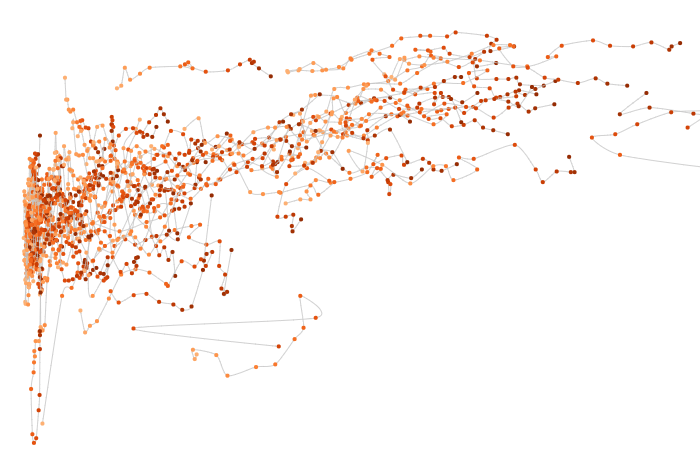
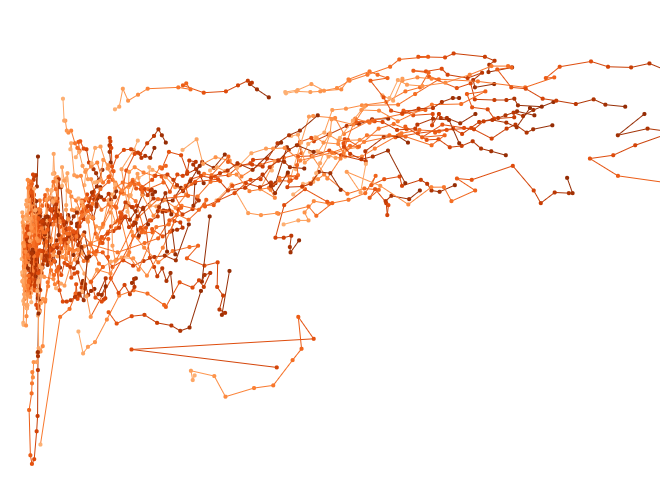
gradients on lines.

diff --git a/src/components/ConnectedScatterPlotGroups/ConnectedScatterPlotGroups.js b/src/components/ConnectedScatterPlotGroups/ConnectedScatterPlotGroups.js
@@ -114,14 +114,15 @@ function chartProps(props) {
   const line = d3
     .line()
     .x(xValue)
-    .y(yValue)
-    .curve(d3.curveCardinal.tension(0.3));
+    .y(yValue);
+  // .curve(d3.curveCardinal.tension(0.3));
 
   const lineCanvas = d3
     .line()
     .x(xValue)
-    .y(yValue)
-    .curve(d3.curveCardinal.tension(0.3));
+    .y(yValue);
+  // .curve(d3.curveNatural);
+  // .curve(d3.curveCardinal.tension(0.3));
 
   let colorValue = d => "#ddd";
   if (colorScale) {
@@ -500,14 +501,28 @@ class ConnectedScatterPlotGroups extends Component {
 
     let hoverCountry = null;
 
-    dataBackground.forEach((country, index) => {
+    dataBackground.forEach(country => {
       if (hover && hover.country === country.key) {
         hoverCountry = country;
       }
       if (country.valuesFilter.length > threshold) {
-        ctx.beginPath();
-        lineCanvas(country.valuesFilter);
-        ctx.stroke();
+        if (hover) {
+          ctx.beginPath();
+          lineCanvas(country.valuesFilter);
+          ctx.stroke();
+        } else {
+          for (let i = 0; i < country.valuesFilter.length - 1; i++) {
+            const segData = [
+              country.valuesFilter[i],
+              country.valuesFilter[i + 1]
+            ];
+            const segColor = colorValue(country.valuesFilter[i]);
+            ctx.strokeStyle = segColor.toString();
+            ctx.beginPath();
+            lineCanvas(segData);
+            ctx.stroke();
+          }
+        }
 
         country.valuesFilter.forEach(year => {
           let dotColor = lineColor;
@@ -543,6 +558,18 @@ class ConnectedScatterPlotGroups extends Component {
       ctx.beginPath();
       lineCanvas(hoverCountry.valuesFilter);
       ctx.stroke();
+
+      for (let i = 0; i < hoverCountry.valuesFilter.length - 1; i++) {
+        const segData = [
+          hoverCountry.valuesFilter[i],
+          hoverCountry.valuesFilter[i + 1]
+        ];
+        const segColor = colorValue(hoverCountry.valuesFilter[i]);
+        ctx.strokeStyle = segColor.toString();
+        ctx.beginPath();
+        lineCanvas(segData);
+        ctx.stroke();
+      }
 
       hoverCountry.valuesFilter.forEach(year => {
         const dotColor = colorValue(year);

diff --git a/src/components/ConnectedScatterPlot/ConnectedScatterPlot.js b/src/components/ConnectedScatterPlot/ConnectedScatterPlot.js
@@ -334,7 +334,7 @@ class ConnectedScatterPlot extends PureComponent {
   updateChart() {
     const { dataFiltered, xValue, yValue, colorValue, radius } = this.props;
 
-    this.updateLine();
+    // this.updateLine();
 
     const binding = this.chart
       .selectAll(".dot")
@@ -357,6 +357,9 @@ class ConnectedScatterPlot extends PureComponent {
     binding.exit().remove();
   }
 
+  /**
+   *
+   */
   updateAxes() {
     const {
       xMetric,
@@ -464,10 +467,13 @@ class ConnectedScatterPlot extends PureComponent {
       padding,
       lineWidth,
       scale,
-      lineCanvas
+      lineCanvas,
+      dataFiltered,
+      colorValue,
+      name
     } = this.props;
 
-    const color = d3.color("#ccc");
+    let color = d3.color("#ccc");
     color.opacity = scale === "global" ? 0.7 : 0.15;
 
     // get context
@@ -484,11 +490,23 @@ class ConnectedScatterPlot extends PureComponent {
     ctx.translate(padding.left, padding.top);
     ctx.lineWidth = lineWidth;
     ctx.strokeStyle = color.toString();
-    dataBackground.forEach((country, index) => {
-      ctx.beginPath();
-      lineCanvas(country.valuesFilter);
-      ctx.stroke();
+    dataBackground.forEach(country => {
+      if (country.key !== name) {
+        ctx.beginPath();
+        lineCanvas(country.valuesFilter);
+        ctx.stroke();
+      }
     });
+
+    ctx.lineWidth = lineWidth;
+    for (let i = 0; i < dataFiltered.length - 1; i++) {
+      const segData = [dataFiltered[i], dataFiltered[i + 1]];
+      const segColor = colorValue(dataFiltered[i]);
+      ctx.strokeStyle = segColor.toString();
+      ctx.beginPath();
+      lineCanvas(segData);
+      ctx.stroke();
+    }
   }
 
   /**
